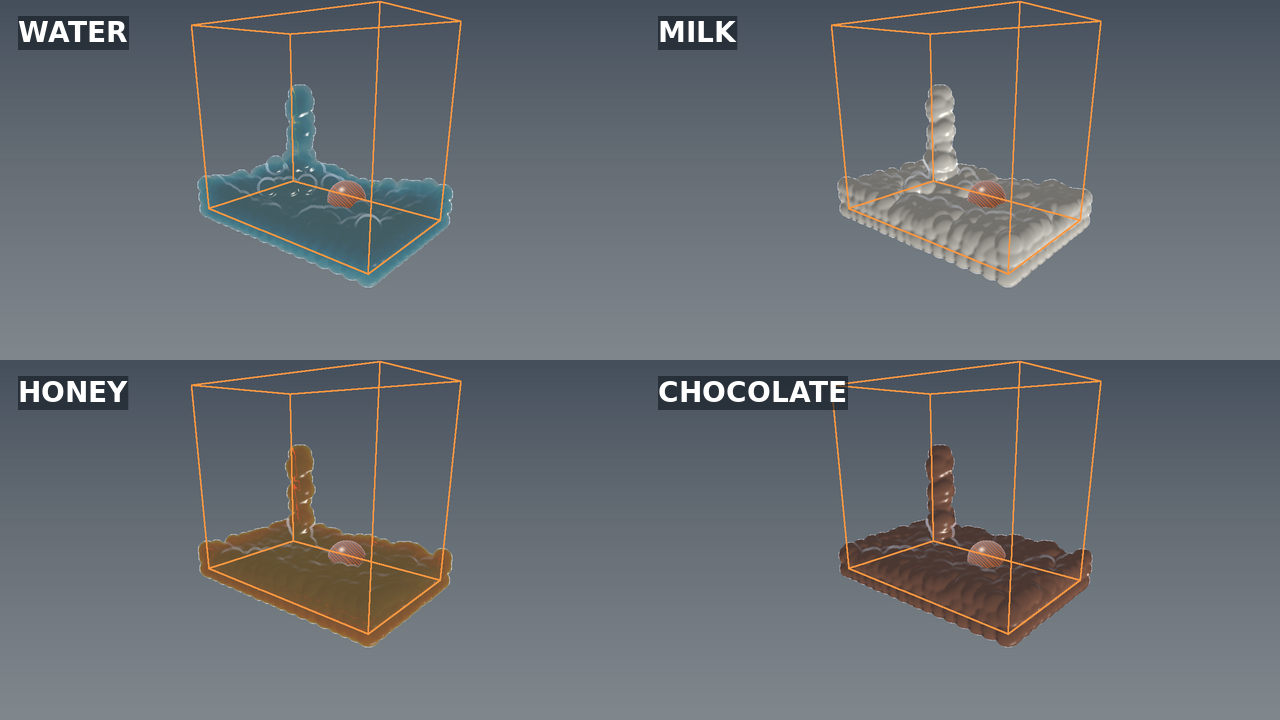
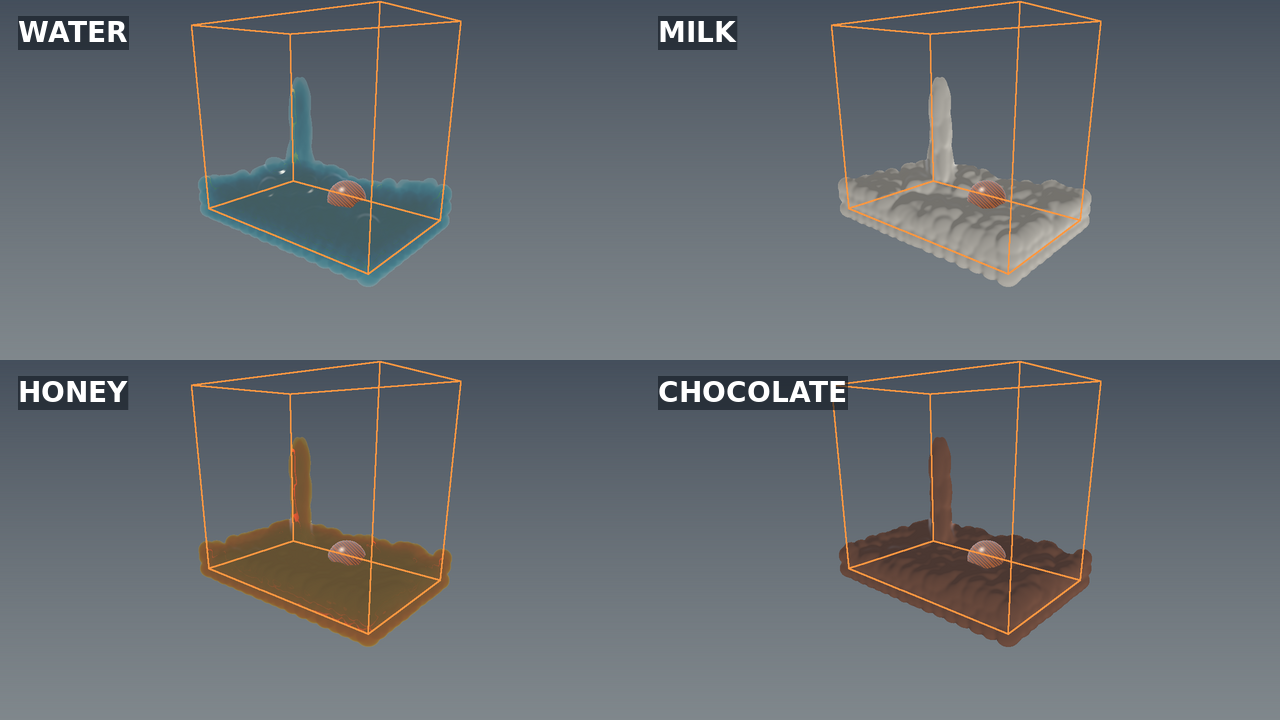
fix(fluid): smooth reconstructed flow surfaces

diff --git a/Projects/Project-Fluid/Source/CpuProofMain.cpp b/Projects/Project-Fluid/Source/CpuProofMain.cpp
@@ -46,39 +46,42 @@ public:
         }
     }
 
-    void FluidSurface(const std::vector<PF::Vec3>& positions,const PF::FluidMaterial& material){
+    void FluidSurface(const std::vector<PF::Vec3>& positions,const std::vector<PF::Vec3>& velocities,const PF::FluidMaterial& material){
         const std::size_t count=static_cast<std::size_t>(W)*H;
         std::vector<float> front(count,std::numeric_limits<float>::max()),thickness(count,0.0f),scratch(count,std::numeric_limits<float>::max());
         constexpr float surfaceRadius=.180f;
-        for(const PF::Vec3& centre:positions){
-            Screen s=Project(centre);if(!s.visible)continue;int radius=std::clamp(static_cast<int>(Focal*surfaceRadius/s.z),1,48);
-            for(int oy=-radius;oy<=radius;++oy)for(int ox=-radius;ox<=radius;++ox){
-                float nx=static_cast<float>(ox)/radius,ny=static_cast<float>(oy)/radius,d2=nx*nx+ny*ny;if(d2>1.0f)continue;
+        for(std::size_t i=0;i<positions.size();++i){
+            const PF::Vec3 centre=positions[i],velocity=velocities[i];Screen s=Project(centre);if(!s.visible)continue;
+            float vx=PF::Dot(velocity,Right),vy=-PF::Dot(velocity,Up),speed=std::sqrt(vx*vx+vy*vy);float ux=speed>.01f?vx/speed:0.0f,uy=speed>.01f?vy/speed:1.0f;
+            float aspect=1.0f+std::clamp(speed*.22f,0.0f,1.4f),major=surfaceRadius*aspect,minor=surfaceRadius/std::sqrt(aspect),depthRadius=minor;
+            int majorPixels=std::clamp(static_cast<int>(Focal*major/s.z),1,72),minorPixels=std::clamp(static_cast<int>(Focal*minor/s.z),1,48),extent=majorPixels;
+            for(int oy=-extent;oy<=extent;++oy)for(int ox=-extent;ox<=extent;++ox){
+                float along=(ox*ux+oy*uy)/majorPixels,across=(-ox*uy+oy*ux)/minorPixels,d2=along*along+across*across;if(d2>1.0f)continue;
                 int x=static_cast<int>(s.x)+ox,y=static_cast<int>(s.y)+oy;if(x<0||y<0||x>=(int)W||y>=(int)H)continue;
                 float nz=std::sqrt(1.0f-d2);std::size_t at=static_cast<std::size_t>(y)*W+x;
-                front[at]=std::min(front[at],s.z-surfaceRadius*nz);thickness[at]+=2.0f*surfaceRadius*nz;
+                front[at]=std::min(front[at],s.z-depthRadius*nz);thickness[at]+=2.0f*depthRadius*nz;
             }
         }
         // Six edge-aware depth/thickness passes mirror the source renderer's
         // bilateral reconstruction and close sub-pixel gaps between samples.
-        for(int pass=0;pass<6;++pass){
+        for(int pass=0;pass<12;++pass){
             for(std::uint32_t y=1;y+1<H;++y)for(std::uint32_t x=1;x+1<W;++x){
                 std::size_t at=static_cast<std::size_t>(y)*W+x;float centre=front[at],sum=0,weight=0;
-                for(int oy=-1;oy<=1;++oy)for(int ox=-1;ox<=1;++ox){float sample=front[(y+oy)*W+x+ox];if(!std::isfinite(sample))continue;float spatial=(ox==0&&oy==0)?2.0f:1.0f;float range=std::isfinite(centre)?std::exp(-std::abs(sample-centre)*8.0f):1.0f;sum+=sample*spatial*range;weight+=spatial*range;}
+                for(int oy=-1;oy<=1;++oy)for(int ox=-1;ox<=1;++ox){float sample=front[(y+oy)*W+x+ox];if(!std::isfinite(sample))continue;float spatial=(ox==0&&oy==0)?2.0f:1.0f;float range=std::isfinite(centre)?std::exp(-std::abs(sample-centre)*1.0f):1.0f;sum+=sample*spatial*range;weight+=spatial*range;}
                 scratch[at]=weight>0?sum/weight:std::numeric_limits<float>::max();
             }
             front.swap(scratch);std::fill(scratch.begin(),scratch.end(),std::numeric_limits<float>::max());
         }
         std::fill(scratch.begin(),scratch.end(),0.0f);
-        for(int pass=0;pass<3;++pass){
+        for(int pass=0;pass<5;++pass){
             for(std::uint32_t y=1;y+1<H;++y)for(std::uint32_t x=1;x+1<W;++x){std::size_t at=static_cast<std::size_t>(y)*W+x;scratch[at]=(thickness[at]*4.0f+thickness[at-1]+thickness[at+1]+thickness[at-W]+thickness[at+W])/8.0f;}
             thickness.swap(scratch);std::fill(scratch.begin(),scratch.end(),0.0f);
         }
         const std::vector<Pixel> backdrop=Colour;PF::Vec3 light=PF::Normalized({-.4f,.8f,.3f});PF::Vec3 halfVector=PF::Normalized(light+PF::Vec3{0,0,1});
         for(std::uint32_t y=3;y+3<H;++y)for(std::uint32_t x=3;x+3<W;++x){
-            std::size_t at=static_cast<std::size_t>(y)*W+x;if(!std::isfinite(front[at])||thickness[at]<.002f)continue;
+            std::size_t at=static_cast<std::size_t>(y)*W+x;if(!std::isfinite(front[at])||thickness[at]<.040f)continue;
             float left=front[at-3],right=front[at+3],top=front[at-3*W],bottom=front[at+3*W];if(!std::isfinite(left)||!std::isfinite(right)||!std::isfinite(top)||!std::isfinite(bottom))continue;
-            PF::Vec3 normal=PF::Normalized({-(right-left)*7.0f,(bottom-top)*7.0f,1.0f});float diffuse=std::max(0.0f,PF::Dot(normal,light));
+            PF::Vec3 normal=PF::Normalized({-(right-left)*3.0f,(bottom-top)*3.0f,1.0f});float diffuse=std::max(0.0f,PF::Dot(normal,light));
             float f0=std::pow((material.Ior-1.0f)/(material.Ior+1.0f),2.0f);float fresnel=f0+(1.0f-f0)*std::pow(1.0f-normal.z,5.0f);
             float specular=std::pow(std::max(0.0f,PF::Dot(normal,halfVector)),110.0f*(1.0f-material.Roughness)+14.0f)*(1.0f-material.Roughness*.55f);
             int rx=std::clamp(static_cast<int>(x-normal.x*thickness[at]*38.0f),0,static_cast<int>(W)-1),ry=std::clamp(static_cast<int>(y+normal.y*thickness[at]*38.0f),0,static_cast<int>(H)-1);Pixel behind=backdrop[static_cast<std::size_t>(ry)*W+rx];
@@ -112,6 +115,6 @@ int main(int argc,char**argv){
     std::cout<<std::fixed<<std::setprecision(5)<<"Flux PBF C++ mirror | material "<<fluid.ActiveMaterial().Name<<" | particles "<<fluid.Positions().size()<<" | t "<<fluid.Time()<<" s\n"
              <<"bounds [-1.95,1.95] x [0.19,3.70] x [-1.25,1.25] m | sphere contacts "<<d.SphereContacts<<" | wall contacts "<<d.WallContacts<<" | min sphere distance "<<minimumObstacleDistance<<" m\n"
              <<"pressure passes "<<d.PressureIterations<<" | mean/peak compression "<<d.MeanCompression<<" / "<<d.PeakCompression<<"\n";
-    if(argc>1){ProofRenderer renderer(1280,720);renderer.Bounds();const auto& material=fluid.ActiveMaterial();renderer.FluidSurface(fluid.Positions(),material);renderer.Sphere(PF::PbfFluid::ObstacleCentre(),PF::PbfFluid::ObstacleRadius(),{.16f,.18f,.20f},true,.25f,1.0f,1.45f);renderer.Bounds(false);if(!renderer.Save(argv[1]))return 2;std::cout<<"proof frame: "<<argv[1]<<'\n';}
+    if(argc>1){ProofRenderer renderer(1280,720);renderer.Bounds();const auto& material=fluid.ActiveMaterial();renderer.FluidSurface(fluid.Positions(),fluid.Velocities(),material);renderer.Sphere(PF::PbfFluid::ObstacleCentre(),PF::PbfFluid::ObstacleRadius(),{.16f,.18f,.20f},true,.25f,1.0f,1.45f);renderer.Bounds(false);if(!renderer.Save(argv[1]))return 2;std::cout<<"proof frame: "<<argv[1]<<'\n';}
     return std::isfinite(d.PeakCompression)?0:1;
 }

diff --git a/Projects/Project-Fluid/Source/VulkanFluidMain.cpp b/Projects/Project-Fluid/Source/VulkanFluidMain.cpp
@@ -67,8 +67,11 @@ struct alignas(16) Parameters {
     float AbsorptionB{0.12f};
     float OpticalPadding{};
 };
-struct alignas(16) GpuParticle { float X{},Y{},Z{},Padding{}; };
-static_assert(sizeof(Parameters) == 80 && sizeof(GpuParticle) == 16);
+struct alignas(16) GpuParticle {
+    float X{},Y{},Z{},Padding{};
+    float VelocityX{},VelocityY{},VelocityZ{},VelocityPadding{};
+};
+static_assert(sizeof(Parameters) == 80 && sizeof(GpuParticle) == 32);
 
 class FluidApplication final {
 public:
@@ -382,8 +385,10 @@ private:
 
     void UploadParticles() {
         const auto& positions = Fluid_.Positions();
+        const auto& velocities = Fluid_.Velocities();
         for (std::size_t i = 0; i < positions.size(); ++i)
-            GpuParticles_[i] = {positions[i].x, positions[i].y, positions[i].z, 0.0f};
+            GpuParticles_[i] = {positions[i].x, positions[i].y, positions[i].z, 0.0f,
+                                velocities[i].x, velocities[i].y, velocities[i].z, 0.0f};
         std::memcpy(ParticleBuffer_.Mapped, GpuParticles_.data(), positions.size() * sizeof(GpuParticle));
         Params_.ParticleCount = static_cast<std::uint32_t>(positions.size());
         Params_.Time = Fluid_.Time();

diff --git a/Exhibits/Project-Fluid/README.md b/Exhibits/Project-Fluid/README.md
@@ -19,9 +19,9 @@ tension, wetting and shear thinning alter the corresponding simulation state.
 
 These are C++ CPU-mirror execution outputs, not generated artwork or captures
 from the removed ocean project. The proof executes the same scene and same
-front-depth/thickness surface algorithm as the Vulkan `.slang` path: overlapping
-particle kernels build continuous front depth and optical thickness, depth and
-thickness are filtered, and a resolve reconstructs normals and applies
+front-depth/thickness surface algorithm as the Vulkan `.slang` path: velocity-aligned anisotropic
+kernels build continuous front depth and optical thickness, then broad depth and
+thickness filters remove particle-frequency lobes, and a resolve reconstructs normals and applies
 refraction, Beer–Lambert attenuation, Fresnel response and rough highlights.
 Individual simulation particles are not directly drawn in the default proof.
 
@@ -54,9 +54,9 @@ python3 Tools/PpmToPng.py /tmp/flux.ppm \
 Checksums:
 
 ```text
-928cf073cf30e01444ee7c383ed9628c3bc7f2040020c480f7adbed8defef368  ProjectFluid_Flux_PBF_Bounds_Collision.png
-f19c6d2e3415b4dea06aa35a80b2e9c07aefe699f8e0af2098b46a8ceda3cf8a  ProjectFluid_Flux_PBF_Collision.gif
-c356f4b1c71c1af45cae899b2eda78988ebcf5ea155fe8098db1418fbd0e8136  ProjectFluid_Flux_Surface_Material_Comparison.png
+923075059850a165c3b45a79ec4d8ac2b63289322ee18eea2985c9eca098e5d8  ProjectFluid_Flux_PBF_Bounds_Collision.png
+976d394a161e8bc8c3790d6d4896dbb29df918cc3648cafa0539f19d01617bf6  ProjectFluid_Flux_PBF_Collision.gif
+6f3781ac93481ccf7fa31d22cc0732841945da38c9e663650f7a4542cda79c5f  ProjectFluid_Flux_Surface_Material_Comparison.png
 ```
 
 The GIF samples twelve independently reproduced fixed-step states. The

diff --git a/Projects/Project-Fluid/RESEARCH.md b/Projects/Project-Fluid/RESEARCH.md
@@ -28,8 +28,11 @@ commit. `Project-Fluid-CPU` is the deterministic headless path used for proof.
 - The default native presentation is a continuous screen-space liquid surface,
   not one rendered sphere per simulation particle. A first compute/CPU-mirror
   pass accumulates nearest front depth and additive optical thickness from
-  overlapping kernels. Repeated bilateral depth and Gaussian thickness filters
-  close the sampled sheet; depth gradients reconstruct the shading normal.
+  velocity-aligned anisotropic kernels. The major axis stretches along projected
+  flow while preserving a smaller depth axis, closing gaps in jets without
+  exposing a chain of spheres. Repeated broad bilateral depth and Gaussian
+  thickness filters close the sampled sheet; depth gradients reconstruct a
+  low-frequency shading normal.
 - Vulkan kernels use Frontier's `.slang` file convention and lower to SPIR-V.
   CPU and Vulkan resolves consume the source commit's base colour,
   Beer–Lambert absorption, opacity, roughness and IOR values for all four

diff --git a/Projects/Project-Fluid/README.md b/Projects/Project-Fluid/README.md
@@ -15,8 +15,9 @@ which has been removed.
 - pairwise surface response, viscosity and shear-thinning material response
 - water, milk, honey and chocolate presets
 - pouring, stirring, pause and deterministic reset
-- Vulkan compute screen-space surface reconstruction: particle front-depth and
-  thickness splats, filtered resolve, reconstructed normals and swapchain copy
+- Vulkan compute screen-space surface reconstruction: velocity-aligned
+  anisotropic front-depth/thickness kernels, wide filtered resolve,
+  reconstructed normals and swapchain copy
 - Frontier `.slang` shader sources lowered to Vulkan SPIR-V
 - source optical presets: base colour, absorption, opacity, roughness and IOR
 - continuous refraction, Beer–Lambert attenuation, Fresnel and rough highlights
